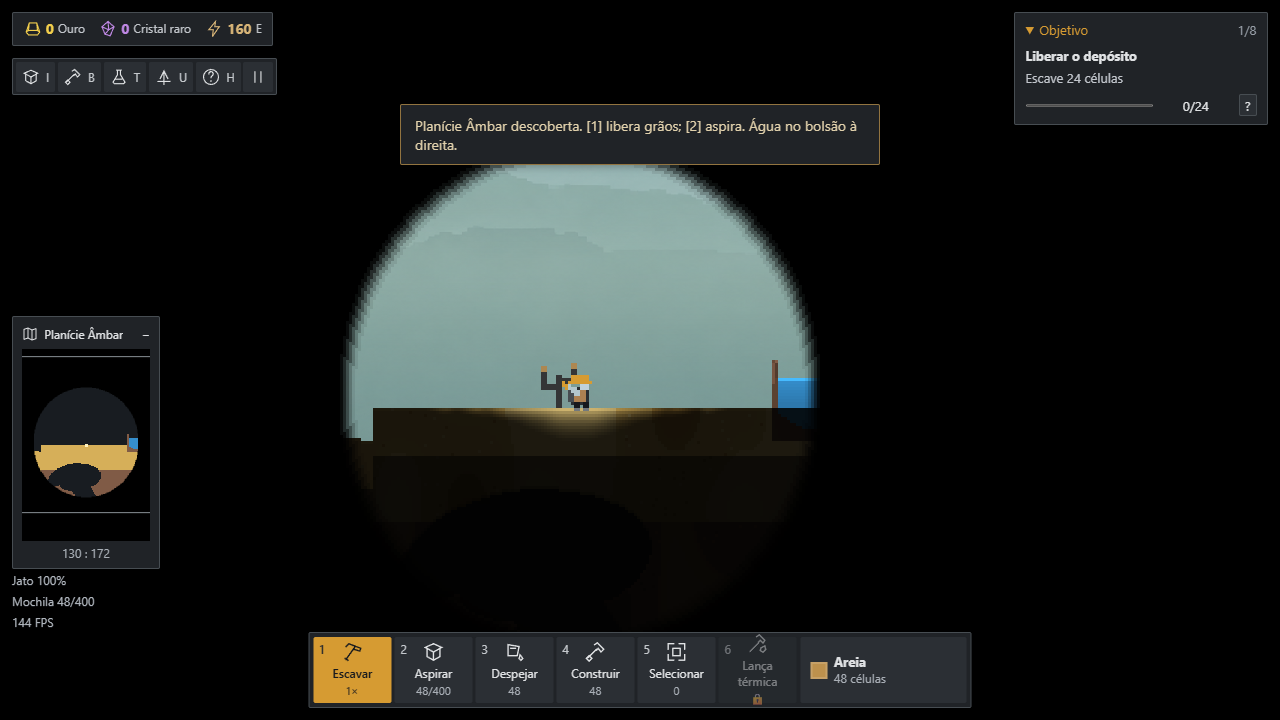
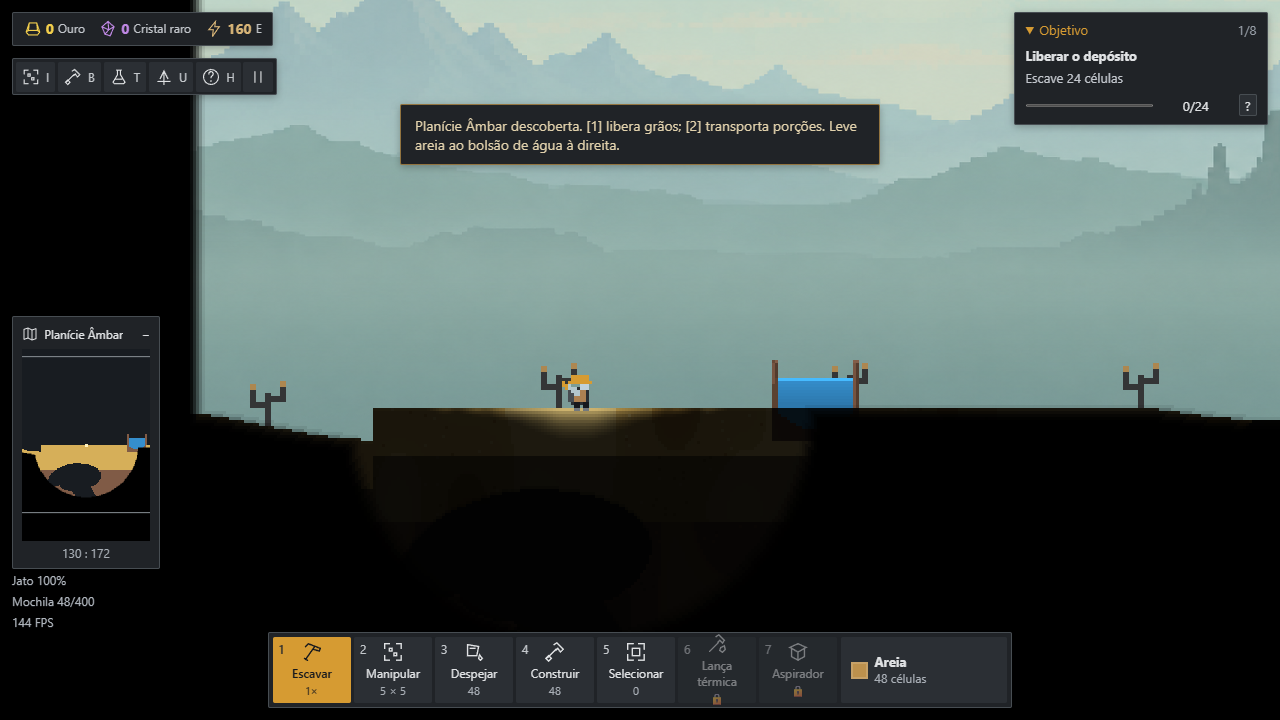
docs: registrar validacao e capturas da versao modular

diff --git a/docs/validation.md b/docs/validation.md
@@ -1,106 +1,79 @@
-# Validação de Prismara 0.4
+# Validação de Prismara 0.5
 
-Execução local concluída em 2026-09-21. Os resultados abaixo pertencem ao código desta versão e à semente 91207 quando uma semente específica é necessária.
+Execução local em 24/09/2026. Esta entrega implementa as mudanças pendentes de manipulação, colisão, módulos e migração. O gerador e a persistência existentes foram preservados.
 
-## Verificações executadas
+## Testes e build
 
-- `npm ci`: 98 pacotes instalados e nenhuma vulnerabilidade reportada.
-- `npm test`: **128 testes aprovados**, nenhum removido. A suíte anterior foi preservada e recebeu 39 cenários de geração, persistência e escala.
-- `npm run build -- --base=/Prismara/`: TypeScript aprovado; 32 módulos transformados; JavaScript principal de 149,91 kB e asset de superfície de 1.048,00 kB.
-- `npm run test:browser`: fluxo integral aprovado no Chrome 153.0.8010.48, sem erros JavaScript ou de console.
-- `npm run benchmark`: 5.400 passos em cada cenário de 1024 × 1536.
-- `npm run audit:terrain`: 30 sementes e cinco conjuntos de mapas de diagnóstico.
+- **152 testes aprovados**: 128 cenários anteriores atualizados onde a regra mudou e 24 novos cenários de manipulação, rotação, transporte, migração e sementes.
+- TypeScript sem erros e build Vite com base **/Prismara/**: 36 módulos, JavaScript principal de 160,09 kB, worker de 16,99 kB e imagem existente de superfície de 1.048,00 kB.
+- Teste integral de navegador no Chrome **153.0.8010.53**, sem erros JavaScript ou de console.
+- Benchmark: 5.400 passos por cenário, equivalentes a 180 segundos em 30 Hz.
 
-A suíte continua cobrindo mistura com consumo de água, saídas da peneira, crédito único no coletor, saída bloqueada sem perda, rotação, lançamento com colisão, contenção e vazamento, construção/remoção sem duplicação, pesquisa sem ciclos, migração e determinismo depois de carregar.
+Neste ambiente local, o executável npm não estava disponível; foram executados diretamente os mesmos programas configurados nos scripts: tsx, TypeScript, Vite e o teste de navegador. O workflow do repositório mantém npm ci, npm test, npm run test:browser e npm run build. Os testes são executados em série para que medições de geração não concorram entre arquivos por CPU e memória.
 
-## Geração subterrânea
+As verificações mantêm mistura consumindo água, saída bloqueada sem perda, crédito único, projeção com colisão, líquidos finitos, pesquisas sem ciclos, temperatura, RNG e validação atômica de saves. Foram alteradas explicitamente as expectativas antigas de apoio sobre areia: todos os grãos soltos são atravessáveis, mesmo parados ou em chunks adormecidos. Terreno e partes sólidas de máquinas continuam bloqueando.
 
-O gerador usa fluxos aleatórios independentes para superfície, cavernas, túneis, geologia, minério, água e ruínas. A ordem é: superfície e limites irregulares; rejeição espacial das salas; grafo conectado com atalhos; túneis curvos de largura variável; deformação e duas passagens de contorno; bolsões isolados; ruínas; veios; reservatórios; validação do corpo do explorador.
+## Escala e geometria
 
-A rede principal usa árvore de custo espacial e conexões extras. Cada túnel é amostrado a cada três células, recebe curvatura suave e raio entre 9 e 14. As salas misturam sete famílias e deformação em três escalas. Sedimentos alargam galerias; gelo privilegia espaços horizontais; a região quente produz volumes mais verticais. `drain`, `thaw` e `feed` são posicionadas pela semente dentro de suas faixas e armazenadas no save.
-
-### Auditoria de 30 sementes
-
-| Medida | Resultado | Limite aceito |
-| --- | ---: | ---: |
-| Tempo de geração | 260,454–414,883 ms; média 315,081 ms | até 1.500 ms |
-| Salas totais | 61–72 | distribuição escalada pelo mapa |
-| Faixas espaciais ocupadas | 20 de 20 em todas as sementes | pelo menos 18 |
-| Maior concentração numa faixa | 6 salas | no máximo 10 |
-| Componentes de ar/água | 5–6 | rede principal + bolsões intencionais |
-| Células alcançáveis pelo corpo | 508.350–567.913 | todos os destinos principais |
-| Areia disponível | 29.406–37.213 | mais de 2.000 |
-| Água disponível | 6.843–12.358 | mais de 300 |
-| TypedArrays do mundo | 33,018 MiB | registrado |
-| Metadados do terreno | 232,084–262,979 KiB | registrado |
-
-As proporções vazias das cinco regiões subterrâneas ficaram entre **24,854% e 43,696%**. Todas as câmaras principais passaram pela máscara de colisão de 5 × 9 células; um flood fill de ar isolado não é usado como prova de passagem. Todos os reservatórios naturais e o bolsão inicial passaram pela regra real de líquido, inclusive deslocamento diagonal. A câmara `drain` é tratada separadamente porque sua função é permitir drenagem.
-
-Na versão anterior, o gerador escavava uma espinha perto de `width × 0,38` e levava as três câmaras a `width × 0,60`. Agora cada semente distribui 57–68 salas principais por toda a largura e profundidade, com 10–13 atalhos, limites geológicos laterais e objetivos em posições distintas. Os bolsões desconectados aparecem como componentes pequenos explícitos.
-
-## Fundo da superfície
-
-O asset [surface-landscape.png](../src/assets/surface-landscape.png) tem **1672 × 941** e mantém proporção 1,776833. Uma única instância é decodificada e reutilizada. O desenho usa escala de cobertura, sem esticar, e paralaxe horizontal de **0,035**, limitado a 48 px.
-
-O recorte segue `surfaceAt(world, x)` em cada coluna visível. O teste amostrou **22 combinações**: superfície, solo, travessia, pouco abaixo, profundidade, retorno, deslocamento horizontal, quatro resoluções/proporções, quatro zooms e saves carregados na superfície e no subterrâneo. Resultado: **zero pixels vazios no céu e zero pixels da paisagem sob o perfil real**. Em profundidade, `drawn=false` e o custo registrado foi 0 ms; na matriz visual, o máximo observado foi 0,2 ms.
-
-O asset não altera células, RNG, tick, personagem ou descoberta. `world.backdrop` permanece a única parede das cavernas e continua passando por iluminação e neblina. Não há fade vertical: o recorte geométrico acompanha diretamente o terreno, evitando céu residual em cavidades profundas. Asset, intensidade do paralaxe e margem ficam centralizados em `src/render/assets.ts`.
+Todas as **27 peças** ocupam **8 × 8 células**, ou 24 × 24 pixels no zoom padrão. O corpo físico do explorador mede 5 × 9 células; a comparação nas duas resoluções confirmou espaço para identificar as silhuetas e construir por arraste. Caixa de construção, seleção, portas, prévia e processamento compartilham a transformação de rotação. Correias, filtros e grelhas usam superfície interna; elevadores empilham; tubos mantêm 48 células por módulo.
 
 ## Partida por controles normais
 
-O ensaio usa menu, teclado, mouse, escavação, aspiração, despejo, catálogo e pesquisa. Na execução final, a primeira produção rentável obteve **7 ouro em 22,533 s de simulação**, com 31 unidades úmidas e 111 células liberadas. O ouro financiou Hidráulica, e o jogador construiu uma rede de 864 unidades de capacidade, copiou e removeu um conjunto sem duplicação, girou uma parede, exportou, recarregou e importou o save.
+A campanha da semente 91207 usa apenas teclado, mouse e menus para alterar a partida. Leituras do estado escolhem grãos visíveis e uma rota livre para o corpo; não adicionam matéria-prima, moedas ou pesquisas.
 
-Depois, uma rota calculada sobre a máscara do corpo foi percorrida com A/D, propulsor e aspiração reais. O caminho tinha **916 células** e 50 segmentos fisicamente livres; chegou à câmara inundada em **86,509 s**, na posição aproximada x=394,6, y=620,5. A descoberta terminou com mais de 155 mil células, sem revelar o mapa inteiro. Foram registradas cenas nas profundidades 300, 450 e 600.
+O jogador escavou **115 células**, levou porções de areia no quadrado de 5 × 5 até o bolsão natural, recolheu areia úmida e a soltou na peneira. O coletor recebeu **10 ouro em 52,867 segundos de simulação**, processando 38 unidades úmidas, sem aspirador. Restavam 36 unidades de areia de construção. Rotor de Coleta custou seis moedas e liberou a tecla 7; a tecla 2 continuou disponível.
 
-## Três minutos de automação
+Depois, a campanha usou o aspirador, construiu uma sequência de módulos por arraste, girou uma parede e copiou/removeu três peças sem ganhar ou perder estoque. Os painéis não se sobrepuseram em 1280 × 720 ou 1920 × 1080.
 
-A instalação foi montada uma vez com depósito consolidado, água finita, sonda, esteiras, peneira, coletor, bomba, tubos e válvula. Nenhuma matéria-prima foi acrescentada e nenhum controle foi usado durante a medição.
+Uma carga manual foi mantida ao abrir o menu e ao percorrer **833 células de rota**, com 46 segmentos, até o Arquivo Inundado. O percurso levou **63,526 segundos reais** e chegou a y=623,1. A campanha salvou, exportou, recarregou a página, continuou e importou o arquivo portátil; carga, quantidade, propriedades, inventário, máquinas e pesquisa permaneceram iguais.
+
+## Compatibilidade e descoberta
+
+O formato v5 aceita v1–v4. A migração preserva células, temperatura, consolidação, metadados das cavernas, moedas, pesquisa e líquidos internos. Peças longas se tornam sequências; o custo original de construção é dividido entre elas. Colisões com terreno, construções ou o personagem deixam o módulo pendente, disponível para reposicionamento gratuito.
+
+Um arquivo v4 controlado também passou pela interface de importação: 48 unidades de água a 73 °C sobreviveram, uma célula consolidada permaneceu intacta, o aspirador ficou disponível e o módulo pendente foi recolocado pelo inventário sem custo. A cópia anterior guardada no IndexedDB foi comparada integralmente com o arquivo importado.
+
+As sementes **1, 17 e 73417** mantiveram os mesmos hashes SHA-256 das células, consolidação e metadados de geração medidos antes das alterações. Não houve redesenho das cavernas. O céu, o relevo por coluna e três células abaixo dele começam conhecidos; a união no carregamento preserva a exploração anterior. A faixa não propaga descoberta pelas cavernas nem concede objetivos. O disco subterrâneo continua com raio de 80 células, separado da iluminação e da memória cartográfica.
+
+## Produção sem intervenção
+
+Este cenário controlado é separado da campanha: recebe um depósito consolidado finito e água uma única vez. Sonda, esteiras, umedecimento, peneira, coletor e hidráulica trabalham sem novos cliques ou insumos durante a medição.
 
 | Tempo | Ouro | Células liberadas | Areia úmida processada |
 | --- | ---: | ---: | ---: |
-| 30 s | 11 | 45 | 32 |
-| 60 s | 21 | 90 | 67 |
-| 90 s | 31 | 135 | 101 |
-| 120 s | 44 | 180 | 135 |
-| 150 s | 52 | 225 | 172 |
-| 180 s | 56 | 270 | 205 |
+| 30 s | 14 | 45 | 38 |
+| 60 s | 19 | 90 | 78 |
+| 90 s | 28 | 135 | 117 |
+| 120 s | 39 | 180 | 157 |
+| 150 s | 51 | 225 | 198 |
+| 180 s | 65 | 270 | 237 |
 
-Duração real **180,001 s** e simulada **180,000 s**. A indústria avançada do cenário controlado produziu 202 pelotas, 44 impactos, 47 unidades fundidas e 15 cristais coletados.
+Duração real **180,003 s**, simulada **180,033 s**. A instalação avançada produziu 238 pelotas, 45 impactos, 53 unidades fundidas e 34 cristais coletados. Saídas e névoa usam caminhos físicos; nada é alimentado durante sua simulação.
 
 ## Desempenho
 
-Ambiente: Windows 10.0.26200, Node 24.19.0, AMD Ryzen 7 5700X, 16 processadores lógicos e 15,928 GiB de RAM. Chrome headless, sem limitação artificial.
+Ambiente: win32 10.0.26200, Node v24.19.0, AMD Ryzen 7 5700X 8-Core Processor, 16 processadores lógicos, 15,928 GiB de RAM. Mundo de 1024 × 1536 células.
 
-| Cenário | Média por tick | p95 | p99 | Máximo | Cartografia |
-| --- | ---: | ---: | ---: | ---: | ---: |
-| Mundo gerado | 0,230 ms | 0,341 ms | 0,437 ms | 37,610 ms | 3 MiB |
-| Linha autônoma | 0,613 ms | 0,844 ms | 1,012 ms | 8,301 ms | 3 MiB |
+| Cenário | Média por passo | p95 | p99 | Máximo |
+| --- | ---: | ---: | ---: | ---: |
+| Mundo gerado | 0,215 ms | 0,324 ms | 0,399 ms | 33,631 ms |
+| Linha autônoma | 0,546 ms | 0,770 ms | 0,956 ms | 7,267 ms |
 
-Na execução final do navegador local, as seis amostras ficaram em **129,140–134,268 FPS**, simulação em **0,587–0,637 ms** e desenho em **1,140–1,183 ms**. O heap final observado foi 87,923 MB. FPS e tempos do jogo são médias móveis pontuais, não garantia para outras máquinas ou fábricas muito maiores.
+TypedArrays: **33,018 MiB**; cartografia: **3 MiB**. As seis amostras do navegador registraram **144,001–144,047 FPS**, simulação **0,596–0,738 ms** e desenho **1,218–1,352 ms**. Heap final observado: 82,948 MiB. São medições de um desktop específico e médias móveis, sem garantia para computadores mais lentos ou milhares de máquinas.
 
 ## Capturas reais
 
-Todas as cenas abaixo foram produzidas pelo jogo em 1280 × 720 e 1920 × 1080.
-
 | Cena | 1280 × 720 | 1920 × 1080 |
 | --- | --- | --- |
-| Início e paisagem | [Imagem](images/14-fundo-superficie-1280.png) | [Imagem](images/14-fundo-superficie-1920.png) |
-| Primeira fábrica | [Imagem](images/02-primeira-fabrica-1280.png) | [Imagem](images/02-primeira-fabrica-1920.png) |
-| Fábrica em etapas | [Imagem](images/03-fabrica-etapas-1280.png) | [Imagem](images/03-fabrica-etapas-1920.png) |
+| Início | [Imagem](images/01-inicio-1280.png) | [Imagem](images/01-inicio-1920.png) |
+| Manipulador carregado | [Imagem](images/17-manipulador-carga-1280.png) | [Imagem](images/17-manipulador-carga-1920.png) |
+| Primeiro ouro | [Imagem](images/02-primeira-fabrica-1280.png) | [Imagem](images/02-primeira-fabrica-1920.png) |
+| Módulos e estruturas | [Imagem](images/03-fabrica-etapas-1280.png) | [Imagem](images/03-fabrica-etapas-1920.png) |
+| Exploração subterrânea | [Imagem](images/04-exploracao-1280.png) | [Imagem](images/04-exploracao-1920.png) |
 | Pesquisa | [Imagem](images/05-pesquisa-1280.png) | [Imagem](images/05-pesquisa-1920.png) |
-| Percurso em profundidade 300 | [Imagem](images/15-percurso-300-1280.png) | [Imagem](images/15-percurso-300-1920.png) |
-| Percurso em profundidade 450 | [Imagem](images/15-percurso-450-1280.png) | [Imagem](images/15-percurso-450-1920.png) |
-| Percurso em profundidade 600 | [Imagem](images/15-percurso-600-1280.png) | [Imagem](images/15-percurso-600-1920.png) |
-| Subterrâneo sem paisagem | [Imagem](images/16-fundo-subterraneo-1280.png) | [Imagem](images/16-fundo-subterraneo-1920.png) |
 | Linha autônoma | [Imagem](images/06-linha-autonoma-1280.png) | [Imagem](images/06-linha-autonoma-1920.png) |
 | Indústria avançada | [Imagem](images/07-industria-avancada-1280.png) | [Imagem](images/07-industria-avancada-1920.png) |
 
-Os mapas de diagnóstico das sementes 0, 1, 7, 91207 e 4294967295 ficam em [docs/images/terrain](images/terrain). Cada semente possui camadas binária, biomas, salas, conexões, recursos e reservatórios. A comparação visual anterior permanece em [docs/images/comparacao](images/comparacao).
+## Limites restantes
 
-![Cavernas e reservatórios da semente 91207](images/terrain/seed-91207-binario.png)
-
-![Biomas irregulares da semente 91207](images/terrain/seed-91207-biomas.png)
-
-## Limitações restantes
-
-A física e a temperatura são discretas; a bateria industrial é compartilhada; oclusão de luz é aproximada; o mundo é finito. O refinamento remove microartefatos com duas passagens e pode conservar pequenas ilhas de uma célula fora da rede principal. A geração custa mais que a versão anterior porque distribui dezenas de salas e comprova passagem pelo corpo; esse custo ocorre ao criar a partida, não a cada quadro. A campanha completa ainda precisa de sessões de balanceamento com jogadores e não há controles por toque, multiplayer ou sincronização em nuvem.
+O manipulador leva até 25 pixels de um material e não carrega líquidos ou gases. G é uma conversão explícita da porção para o estoque; temperatura e disposição espacial não fazem parte desse estoque numérico. Fábricas retangulares migradas podem precisar de reposicionamento e reconexão: a grade e as faces mudaram. O backup permite voltar ao arquivo anterior em uma versão compatível. Fechamento abrupto do processo pode interromper uma gravação assíncrona; Salvar e exportar continuam disponíveis. A campanha inteira ainda não passou por estudo de balanceamento com jogadores.
